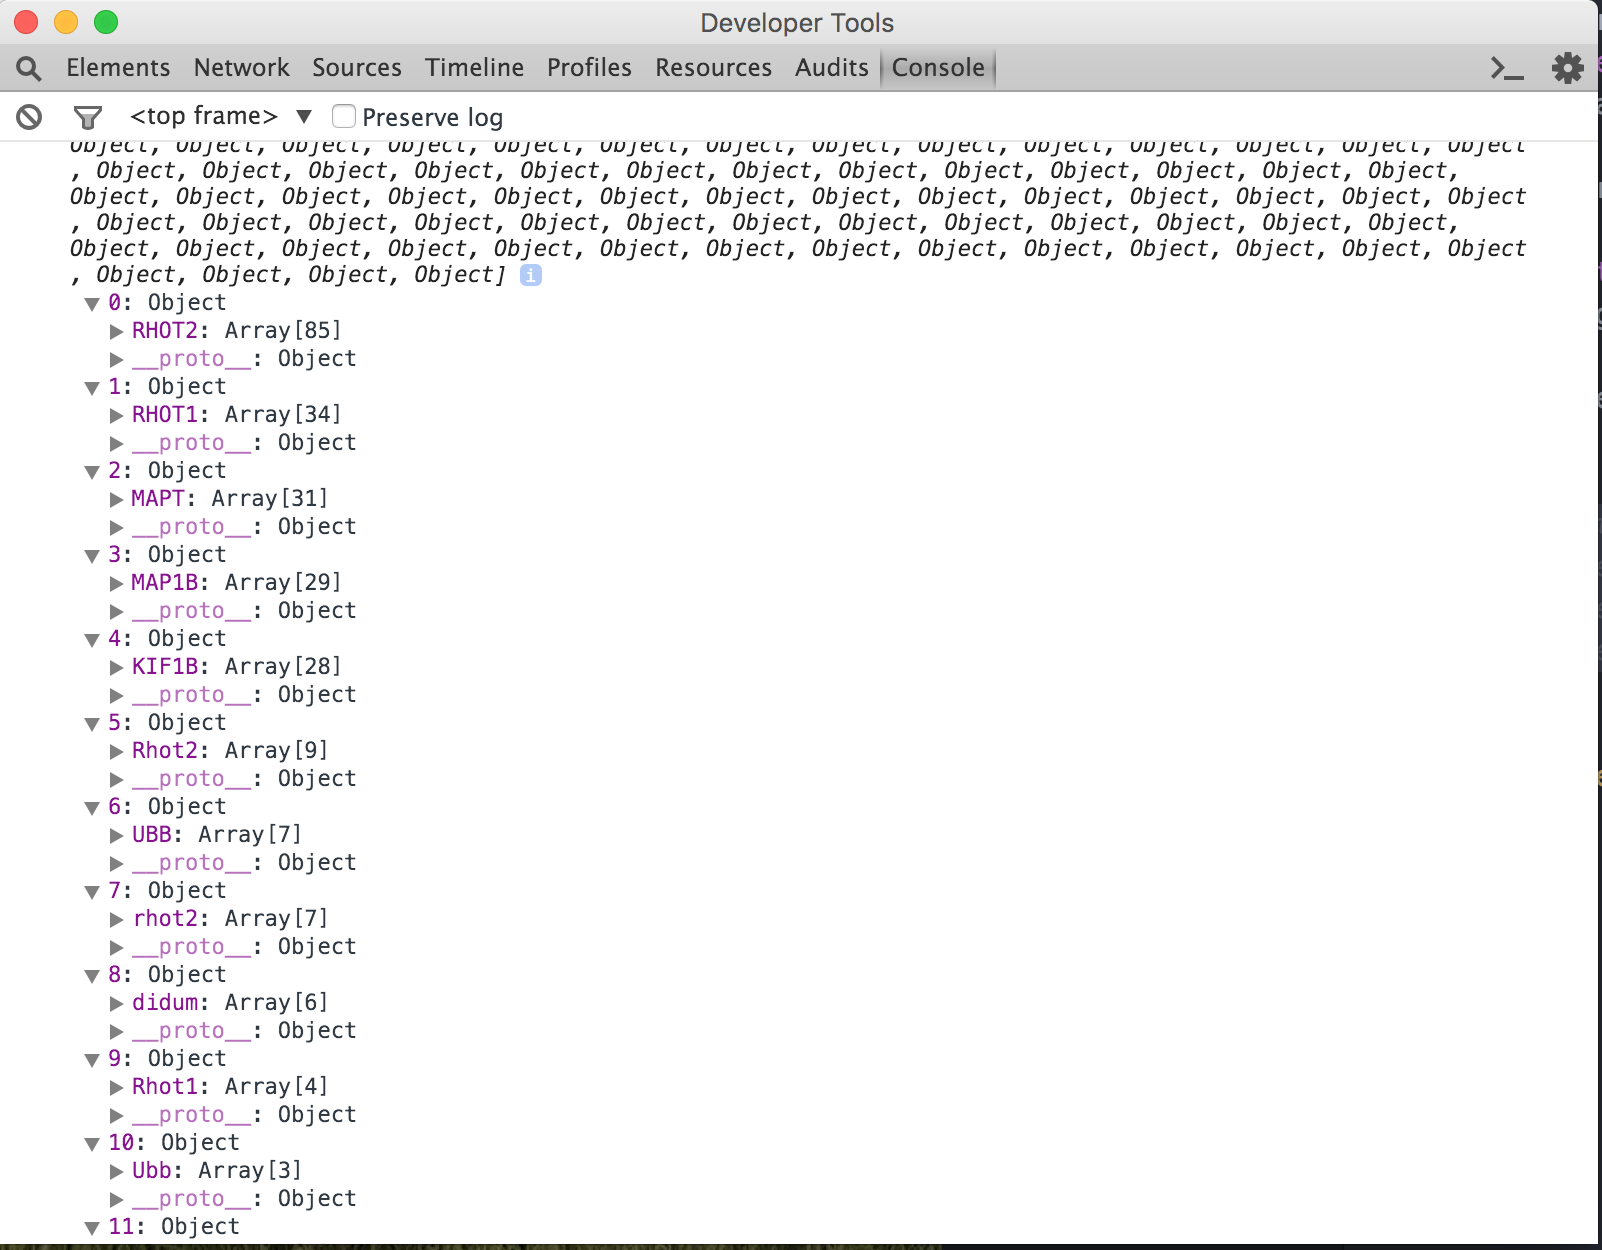
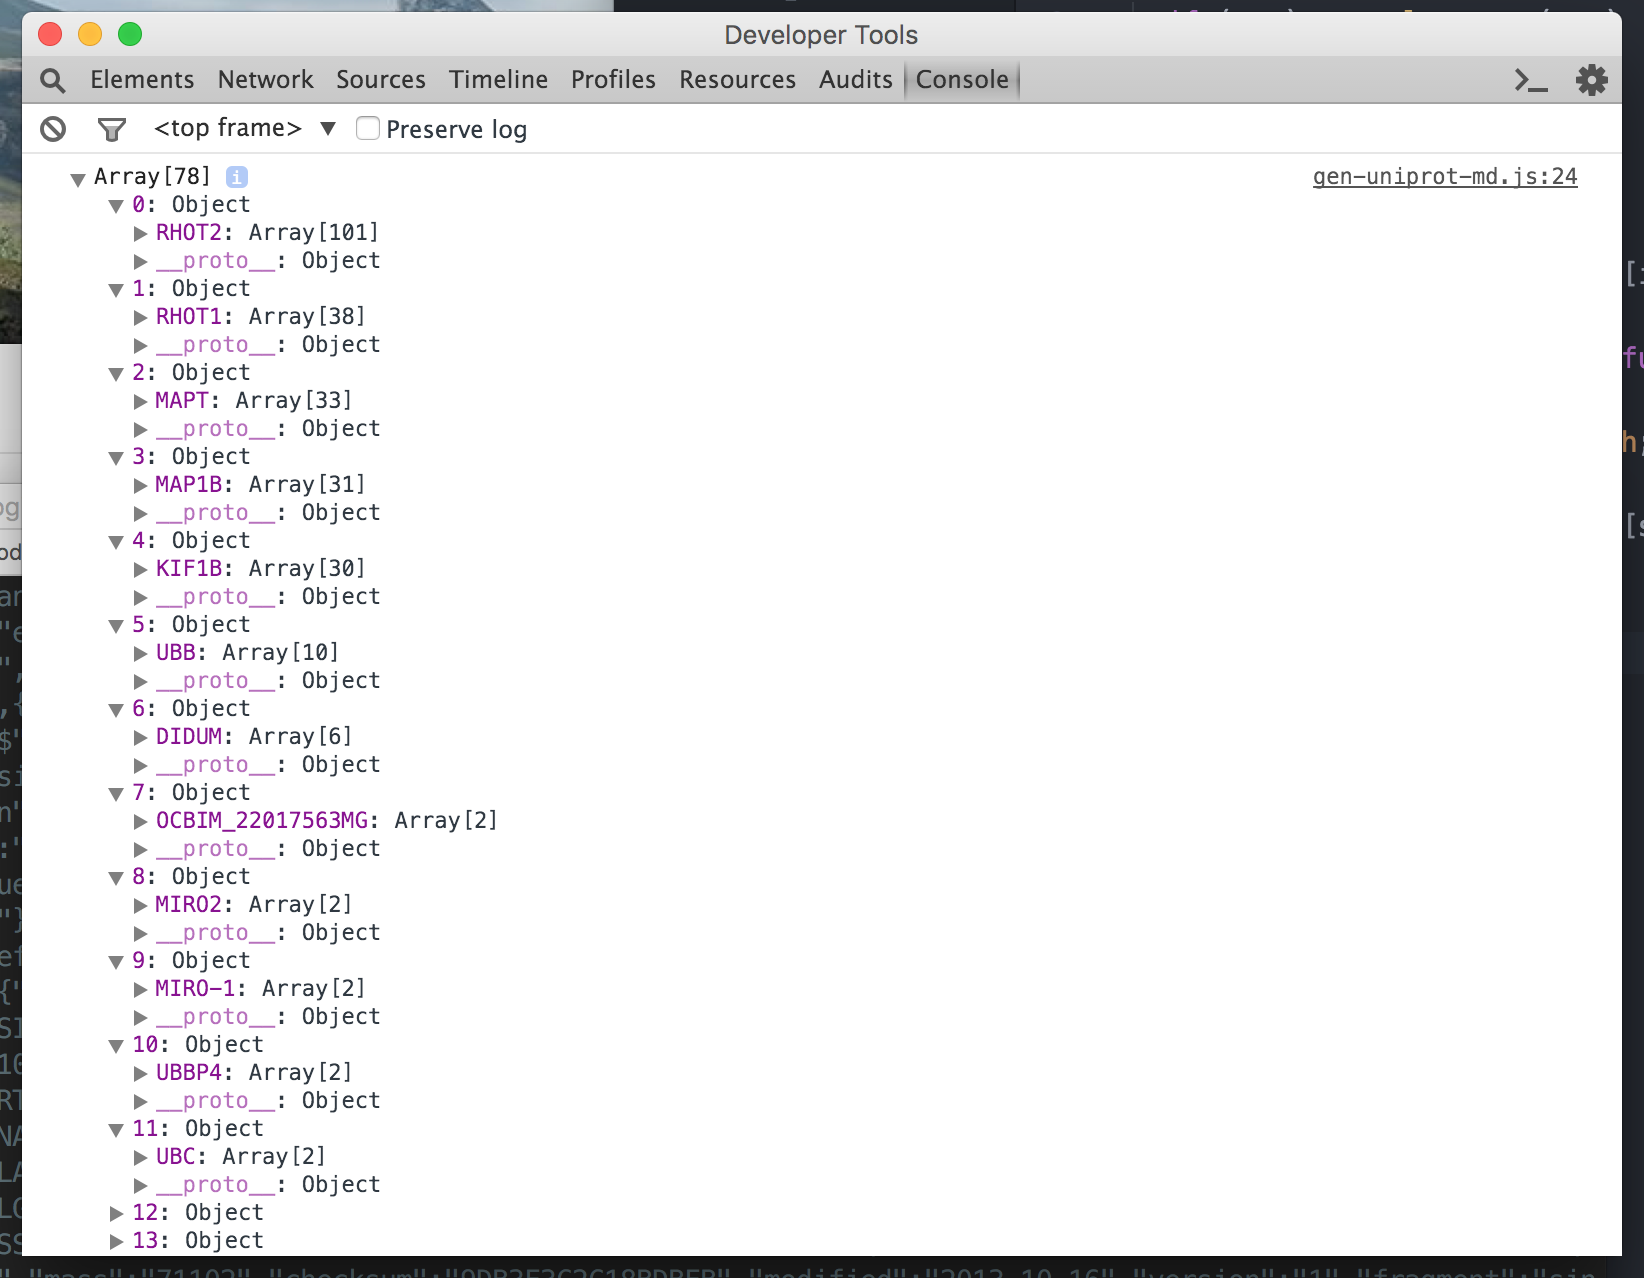
fix markdown

Changed region(s): [[0.0, 0.0, 1.0, 1.0]]

diff --git a/src/gen-uniprot-md.js b/src/gen-uniprot-md.js
@@ -29,7 +29,7 @@ fs.readFile(__dirname + '/../files/0047497-proteins.json', function(err, data) {
   Object.keys(produced).forEach(function(key) {
     const UniProtKBBaseUri = 'http://www.uniprot.org/uniprot/'
     // console.log(`## ${key} (${produced[key].length})`)
-    process.stdout.write(`## ${key} (${produced[key].length})\n`)
+    process.stdout.write(`\n## ${key} (${produced[key].length})\n`)
 
     produced[key].forEach(function(gene) {
       let name = gene.uniprot.entry[0].organism[0].name[0]._

diff --git a/files/0047497-proteins.md b/files/0047497-proteins.md
@@ -1,3 +1,4 @@
+
 ## RHOT2 (99)
 * Papio anubis; [A0A096NKH4](http://www.uniprot.org/uniprot/A0A096NKH4)
 * Papio anubis; [A0A096NKH4](http://www.uniprot.org/uniprot/A0A096NKH4)
@@ -98,6 +99,7 @@
 * Ophiophagus hannah; [V8NMM0](http://www.uniprot.org/uniprot/V8NMM0)
 * Ovis aries; [W5QFY3](http://www.uniprot.org/uniprot/W5QFY3)
 * Ovis aries; [W5QFY3](http://www.uniprot.org/uniprot/W5QFY3)
+
 ## RHOT1 (38)
 * Papio anubis; [A0A096P3R7](http://www.uniprot.org/uniprot/A0A096P3R7)
 * Rattus norvegicus; [A0A0G2K777](http://www.uniprot.org/uniprot/A0A0G2K777)
@@ -137,6 +139,7 @@
 * Anas platyrhynchos; [U3IHD1](http://www.uniprot.org/uniprot/U3IHD1)
 * Ficedula albicollis; [U3JHY1](http://www.uniprot.org/uniprot/U3JHY1)
 * Ovis aries; [W5PP34](http://www.uniprot.org/uniprot/W5PP34)
+
 ## MAPT (33)
 * Papio anubis; [A0A096P681](http://www.uniprot.org/uniprot/A0A096P681)
 * Gallus gallus; [B0LVG0](http://www.uniprot.org/uniprot/B0LVG0), [F1NUN1](http://www.uniprot.org/uniprot/F1NUN1)
@@ -171,6 +174,7 @@
 * Anas platyrhynchos; [U3IKL9](http://www.uniprot.org/uniprot/U3IKL9)
 * Ficedula albicollis; [U3JQD1](http://www.uniprot.org/uniprot/U3JQD1)
 * Ovis aries; [W5PNU3](http://www.uniprot.org/uniprot/W5PNU3)
+
 ## MAP1B (31)
 * Papio anubis; [A0A096NBM8](http://www.uniprot.org/uniprot/A0A096NBM8)
 * Ailuropoda melanoleuca; [D2HGU8](http://www.uniprot.org/uniprot/D2HGU8)
@@ -203,6 +207,7 @@
 * Homo sapiens; [P46821](http://www.uniprot.org/uniprot/P46821), [A2BDK5](http://www.uniprot.org/uniprot/A2BDK5)
 * Ficedula albicollis; [U3K6V0](http://www.uniprot.org/uniprot/U3K6V0)
 * Ovis aries; [W5P564](http://www.uniprot.org/uniprot/W5P564)
+
 ## KIF1B (30)
 * Bos taurus; [E1BBN7](http://www.uniprot.org/uniprot/E1BBN7)
 * Canis lupus familiaris; [E2R9C4](http://www.uniprot.org/uniprot/E2R9C4)
@@ -234,6 +239,7 @@
 * Anas platyrhynchos; [U3IGK7](http://www.uniprot.org/uniprot/U3IGK7)
 * Ficedula albicollis; [U3JXP6](http://www.uniprot.org/uniprot/U3JXP6)
 * Ovis aries; [W5P6Z9](http://www.uniprot.org/uniprot/W5P6Z9)
+
 ## UBB (10)
 * Sus scrofa; [A7U5U2](http://www.uniprot.org/uniprot/A7U5U2)
 * Callithrix jacchus; [F6Q8N3](http://www.uniprot.org/uniprot/F6Q8N3)
@@ -245,6 +251,7 @@
 * Mus musculus; [P0CG49](http://www.uniprot.org/uniprot/P0CG49), [P02248](http://www.uniprot.org/uniprot/P02248), [P02249](http://www.uniprot.org/uniprot/P02249), [P02250](http://www.uniprot.org/uniprot/P02250), [P62991](http://www.uniprot.org/uniprot/P62991), [Q29120](http://www.uniprot.org/uniprot/Q29120), [Q62317](http://www.uniprot.org/uniprot/Q62317), [Q64223](http://www.uniprot.org/uniprot/Q64223), [Q8VCH1](http://www.uniprot.org/uniprot/Q8VCH1), [Q91887](http://www.uniprot.org/uniprot/Q91887), [Q91888](http://www.uniprot.org/uniprot/Q91888), [Q9CXY4](http://www.uniprot.org/uniprot/Q9CXY4), [Q9CZM0](http://www.uniprot.org/uniprot/Q9CZM0), [Q9D1R5](http://www.uniprot.org/uniprot/Q9D1R5), [Q9D8D9](http://www.uniprot.org/uniprot/Q9D8D9), [Q9ET23](http://www.uniprot.org/uniprot/Q9ET23), [Q9ET24](http://www.uniprot.org/uniprot/Q9ET24), [Q9Z0H9](http://www.uniprot.org/uniprot/Q9Z0H9)
 * Gorilla gorilla gorilla; [P0CG67](http://www.uniprot.org/uniprot/P0CG67), [Q867C2](http://www.uniprot.org/uniprot/Q867C2), [Q867C6](http://www.uniprot.org/uniprot/Q867C6)
 * Mus musculus; [Q78XY9](http://www.uniprot.org/uniprot/Q78XY9)
+
 ## DIDUM (6)
 * Drosophila melanogaster; [A1Z6Z8](http://www.uniprot.org/uniprot/A1Z6Z8)
 * Drosophila melanogaster; [A1Z6Z9](http://www.uniprot.org/uniprot/A1Z6Z9)
@@ -252,151 +259,222 @@
 * Drosophila melanogaster; [O97417](http://www.uniprot.org/uniprot/O97417)
 * Drosophila melanogaster; [Q7YU40](http://www.uniprot.org/uniprot/Q7YU40)
 * Drosophila melanogaster; [Q94882](http://www.uniprot.org/uniprot/Q94882), [O01381](http://www.uniprot.org/uniprot/O01381)
+
 ## OCBIM_22017563MG (2)
 * Octopus bimaculoides; [A0A0L8HCJ1](http://www.uniprot.org/uniprot/A0A0L8HCJ1)
 * Octopus bimaculoides; [A0A0L8HCW9](http://www.uniprot.org/uniprot/A0A0L8HCW9)
+
 ## MIRO2 (2)
 * Rhinolophus ferrumequinum; [B2KHX1](http://www.uniprot.org/uniprot/B2KHX1)
 * Neovison vison; [U6D2Z6](http://www.uniprot.org/uniprot/U6D2Z6)
+
 ## MIRO-1 (2)
 * Caenorhabditis briggsae; [Q623S8](http://www.uniprot.org/uniprot/Q623S8), [A8WQY7](http://www.uniprot.org/uniprot/A8WQY7)
 * Caenorhabditis elegans; [Q94263](http://www.uniprot.org/uniprot/Q94263)
+
 ## UBBP4 (2)
 * Canis lupus familiaris; [F1PDG4](http://www.uniprot.org/uniprot/F1PDG4)
 * Nomascus leucogenys; [G1RIK9](http://www.uniprot.org/uniprot/G1RIK9)
+
 ## UBC (2)
 * Monodelphis domestica; [F7E910](http://www.uniprot.org/uniprot/F7E910)
 * Oryctolagus cuniculus; [G1SF46](http://www.uniprot.org/uniprot/G1SF46)
+
 ## MIRO (2)
 * Drosophila pseudoobscura pseudoobscura; [Q298L5](http://www.uniprot.org/uniprot/Q298L5)
 * Drosophila melanogaster; [Q8IMX7](http://www.uniprot.org/uniprot/Q8IMX7), [Q8IMX6](http://www.uniprot.org/uniprot/Q8IMX6), [Q95TT1](http://www.uniprot.org/uniprot/Q95TT1)
+
 ## V1G144500 (1)
 * Nematostella vectensis; [A7T3M6](http://www.uniprot.org/uniprot/A7T3M6)
+
 ## N333_06614 (1)
 * Nestor notabilis; [A0A091S4R7](http://www.uniprot.org/uniprot/A0A091S4R7)
+
 ## N334_06715 (1)
 * Pelecanus crispus; [A0A091SKS9](http://www.uniprot.org/uniprot/A0A091SKS9)
+
 ## Y956_05281 (1)
 * Nipponia nippon; [A0A091US71](http://www.uniprot.org/uniprot/A0A091US71)
+
 ## M959_15097 (1)
 * Chaetura pelagica; [A0A093BES2](http://www.uniprot.org/uniprot/A0A093BES2)
+
 ## N339_04838 (1)
 * Pterocles gutturalis; [A0A093C1W4](http://www.uniprot.org/uniprot/A0A093C1W4)
+
 ## N328_04486 (1)
 * Gavia stellata; [A0A093EUL8](http://www.uniprot.org/uniprot/A0A093EUL8)
+
 ## N307_01610 (1)
 * Picoides pubescens; [A0A093GD14](http://www.uniprot.org/uniprot/A0A093GD14)
+
 ## N308_01515 (1)
 * Struthio camelus australis; [A0A093I2W2](http://www.uniprot.org/uniprot/A0A093I2W2)
+
 ## N326_04260 (1)
 * Eurypyga helias; [A0A093JES6](http://www.uniprot.org/uniprot/A0A093JES6)
+
 ## N327_04483 (1)
 * Fulmarus glacialis; [A0A093KVJ3](http://www.uniprot.org/uniprot/A0A093KVJ3)
+
 ## AS28_14547 (1)
 * Pygoscelis adeliae; [A0A093NHZ8](http://www.uniprot.org/uniprot/A0A093NHZ8)
+
 ## N305_01219 (1)
 * Manacus vitellinus; [A0A093PFQ9](http://www.uniprot.org/uniprot/A0A093PFQ9)
+
 ## N336_04147 (1)
 * Phalacrocorax carbo; [A0A093SC43](http://www.uniprot.org/uniprot/A0A093SC43)
+
 ## GSONMT00078389001 (1)
 * Oncorhynchus mykiss; [A0A060VUV1](http://www.uniprot.org/uniprot/A0A060VUV1)
+
 ## N312_08203 (1)
 * Balearica regulorum gibbericeps; [A0A087VLB5](http://www.uniprot.org/uniprot/A0A087VLB5)
+
 ## H920_03797 (1)
 * Fukomys damarensis; [A0A091DRL7](http://www.uniprot.org/uniprot/A0A091DRL7)
+
 ## H920_03798 (1)
 * Fukomys damarensis; [A0A091DWX0](http://www.uniprot.org/uniprot/A0A091DWX0)
+
 ## N309_09959 (1)
 * Tinamus guttatus; [A0A099Z4X1](http://www.uniprot.org/uniprot/A0A099Z4X1)
+
 ## N301_16766 (1)
 * Charadrius vociferus; [A0A099ZXA7](http://www.uniprot.org/uniprot/A0A099ZXA7)
+
 ## MIRO-2 (1)
 * Sparus aurata; [A0A0B4KJI3](http://www.uniprot.org/uniprot/A0A0B4KJI3)
+
 ## ORF82542 (1)
 * Arion vulgaris; [A0A0B6ZV50](http://www.uniprot.org/uniprot/A0A0B6ZV50)
+
 ## ORF82537 (1)
 * Arion vulgaris; [A0A0B6ZV92](http://www.uniprot.org/uniprot/A0A0B6ZV92)
+
 ## N302_12969 (1)
 * Corvus brachyrhynchos; [A0A091FPX0](http://www.uniprot.org/uniprot/A0A091FPX0)
+
 ## N303_04397 (1)
 * Cuculus canorus; [A0A091GAP3](http://www.uniprot.org/uniprot/A0A091GAP3)
+
 ## V1G113475 (1)
 * Nematostella vectensis; [A7SCK4](http://www.uniprot.org/uniprot/A7SCK4)
+
 ## AS27_07083 (1)
 * Aptenodytes forsteri; [A0A087QIA7](http://www.uniprot.org/uniprot/A0A087QIA7)
+
 ## N320_08830 (1)
 * Buceros rhinoceros silvestris; [A0A091H0R7](http://www.uniprot.org/uniprot/A0A091H0R7)
+
 ## Z169_01996 (1)
 * Egretta garzetta; [A0A091IQ37](http://www.uniprot.org/uniprot/A0A091IQ37)
+
 ## ISCW_ISCW002009 (1)
 * Ixodes scapularis; [B7PAT4](http://www.uniprot.org/uniprot/B7PAT4)
+
 ## BRAFLDRAFT_93126 (1)
 * Branchiostoma floridae; [C3YJ97](http://www.uniprot.org/uniprot/C3YJ97)
+
 ## PANDA_008933 (1)
 * Ailuropoda melanoleuca; [D2HDW8](http://www.uniprot.org/uniprot/D2HDW8)
+
 ## LOC100483436 (1)
 * Ailuropoda melanoleuca; [D2HFP2](http://www.uniprot.org/uniprot/D2HFP2)
+
 ## PANDA_017259 (1)
 * Ailuropoda melanoleuca; [D2HXB8](http://www.uniprot.org/uniprot/D2HXB8)
+
 ## N300_14007 (1)
 * Calypte anna; [A0A091ITZ1](http://www.uniprot.org/uniprot/A0A091ITZ1)
+
 ## GGA.48506 (1)
 * Gallus gallus; [E1C889](http://www.uniprot.org/uniprot/E1C889)
+
 ## N323_12501 (1)
 * Cathartes aura; [A0A091L7Q6](http://www.uniprot.org/uniprot/A0A091L7Q6)
+
 ## N311_06801 (1)
 * Apaloderma vittatum; [A0A091NQY6](http://www.uniprot.org/uniprot/A0A091NQY6)
+
 ## ISG15 (1)
 * Ornithorhynchus anatinus; [F7G4U0](http://www.uniprot.org/uniprot/F7G4U0)
+
 ## I79_007891 (1)
 * Cricetulus griseus; [G3HBU1](http://www.uniprot.org/uniprot/G3HBU1)
+
 ## GW7_12979 (1)
 * Heterocephalus glaber; [G5BXW2](http://www.uniprot.org/uniprot/G5BXW2)
+
 ## EGK_12301 (1)
 * Macaca mulatta; [G7NQE3](http://www.uniprot.org/uniprot/G7NQE3)
+
 ## EGM_11282 (1)
 * Macaca fascicularis; [G7Q031](http://www.uniprot.org/uniprot/G7Q031)
+
 ## UBB-2 (1)
 * Taeniopygia guttata; [H0Z8Y5](http://www.uniprot.org/uniprot/H0Z8Y5)
+
 ## LOC101070493 (1)
 * Takifugu rubripes; [H2UR24](http://www.uniprot.org/uniprot/H2UR24)
+
 ## GM20683 (1)
 * Mus musculus; [H3BKJ1](http://www.uniprot.org/uniprot/H3BKJ1)
+
 ## LOC100694117 (1)
 * Oreochromis niloticus; [I3KVM5](http://www.uniprot.org/uniprot/I3KVM5)
+
 ## LOC103889580 (1)
 * Pongo abelii; [J9JIJ3](http://www.uniprot.org/uniprot/J9JIJ3)
+
 ## PAL_GLEAN10011784 (1)
 * Pteropus alecto; [L5KGP9](http://www.uniprot.org/uniprot/L5KGP9)
+
 ## MDA_GLEAN10007616 (1)
 * Myotis davidii; [L5LQZ0](http://www.uniprot.org/uniprot/L5LQZ0)
+
 ## M91_08795 (1)
 * Bos mutus; [L8J2F5](http://www.uniprot.org/uniprot/L8J2F5)
+
 ## GL (1)
 * Drosophila melanogaster; [P13496](http://www.uniprot.org/uniprot/P13496), [B5X0J0](http://www.uniprot.org/uniprot/B5X0J0), [Q8MT52](http://www.uniprot.org/uniprot/Q8MT52), [Q9VUA1](http://www.uniprot.org/uniprot/Q9VUA1)
+
 ## KHC (1)
 * Drosophila melanogaster; [P17210](http://www.uniprot.org/uniprot/P17210), [Q9V7L9](http://www.uniprot.org/uniprot/Q9V7L9)
+
 ## DHC64C (1)
 * Drosophila melanogaster; [P37276](http://www.uniprot.org/uniprot/P37276), [Q8IRA5](http://www.uniprot.org/uniprot/Q8IRA5), [Q961M8](http://www.uniprot.org/uniprot/Q961M8), [Q9VZ83](http://www.uniprot.org/uniprot/Q9VZ83)
+
 ## LRPPRC (1)
 * Homo sapiens; [P42704](http://www.uniprot.org/uniprot/P42704), [A0PJE3](http://www.uniprot.org/uniprot/A0PJE3), [A8K1V1](http://www.uniprot.org/uniprot/A8K1V1), [Q53PC0](http://www.uniprot.org/uniprot/Q53PC0), [Q53QN7](http://www.uniprot.org/uniprot/Q53QN7), [Q6ZUD8](http://www.uniprot.org/uniprot/Q6ZUD8), [Q7Z7A6](http://www.uniprot.org/uniprot/Q7Z7A6), [Q96D84](http://www.uniprot.org/uniprot/Q96D84)
+
 ## JAR (1)
 * Drosophila melanogaster; [Q01989](http://www.uniprot.org/uniprot/Q01989), [A4V3C6](http://www.uniprot.org/uniprot/A4V3C6), [Q59DV3](http://www.uniprot.org/uniprot/Q59DV3), [Q59DV4](http://www.uniprot.org/uniprot/Q59DV4), [Q9VCA4](http://www.uniprot.org/uniprot/Q9VCA4)
+
 ## PINK1 (1)
 * Drosophila melanogaster; [Q0KHV6](http://www.uniprot.org/uniprot/Q0KHV6)
+
 ## N330_10489 (1)
 * Leptosomus discolor; [A0A091Q2P4](http://www.uniprot.org/uniprot/A0A091Q2P4)
+
 ## GSTENG00024065001 (1)
 * Tetraodon nigroviridis; [Q4S4S0](http://www.uniprot.org/uniprot/Q4S4S0)
+
 ## DKFZP459P0951 (1)
 * Pongo abelii; [Q5RBC2](http://www.uniprot.org/uniprot/Q5RBC2)
+
 ## N331_05983 (1)
 * Merops nubicus; [A0A091QUC2](http://www.uniprot.org/uniprot/A0A091QUC2)
+
 ## MAP1S (1)
 * Homo sapiens; [Q66K74](http://www.uniprot.org/uniprot/Q66K74), [B4DH53](http://www.uniprot.org/uniprot/B4DH53), [Q27QB1](http://www.uniprot.org/uniprot/Q27QB1), [Q6NXF1](http://www.uniprot.org/uniprot/Q6NXF1), [Q8N3L8](http://www.uniprot.org/uniprot/Q8N3L8), [Q8N3W5](http://www.uniprot.org/uniprot/Q8N3W5), [Q8NI88](http://www.uniprot.org/uniprot/Q8NI88), [Q96H94](http://www.uniprot.org/uniprot/Q96H94), [Q96IT4](http://www.uniprot.org/uniprot/Q96IT4), [Q96SP8](http://www.uniprot.org/uniprot/Q96SP8), [Q9BRC6](http://www.uniprot.org/uniprot/Q9BRC6), [Q9H928](http://www.uniprot.org/uniprot/Q9H928), [Q9NVK7](http://www.uniprot.org/uniprot/Q9NVK7)
+
 ## RHOT1A (1)
 * Danio rerio; [Q6NVC5](http://www.uniprot.org/uniprot/Q6NVC5), [Q803L2](http://www.uniprot.org/uniprot/Q803L2)
+
 ## UXT (1)
 * Homo sapiens; [Q9UBK9](http://www.uniprot.org/uniprot/Q9UBK9), [B2R561](http://www.uniprot.org/uniprot/B2R561), [Q5JZG3](http://www.uniprot.org/uniprot/Q5JZG3), [Q9Y6E5](http://www.uniprot.org/uniprot/Q9Y6E5)
+
 ## D623_10017198 (1)
 * Myotis brandtii; [S7N2R5](http://www.uniprot.org/uniprot/S7N2R5)
